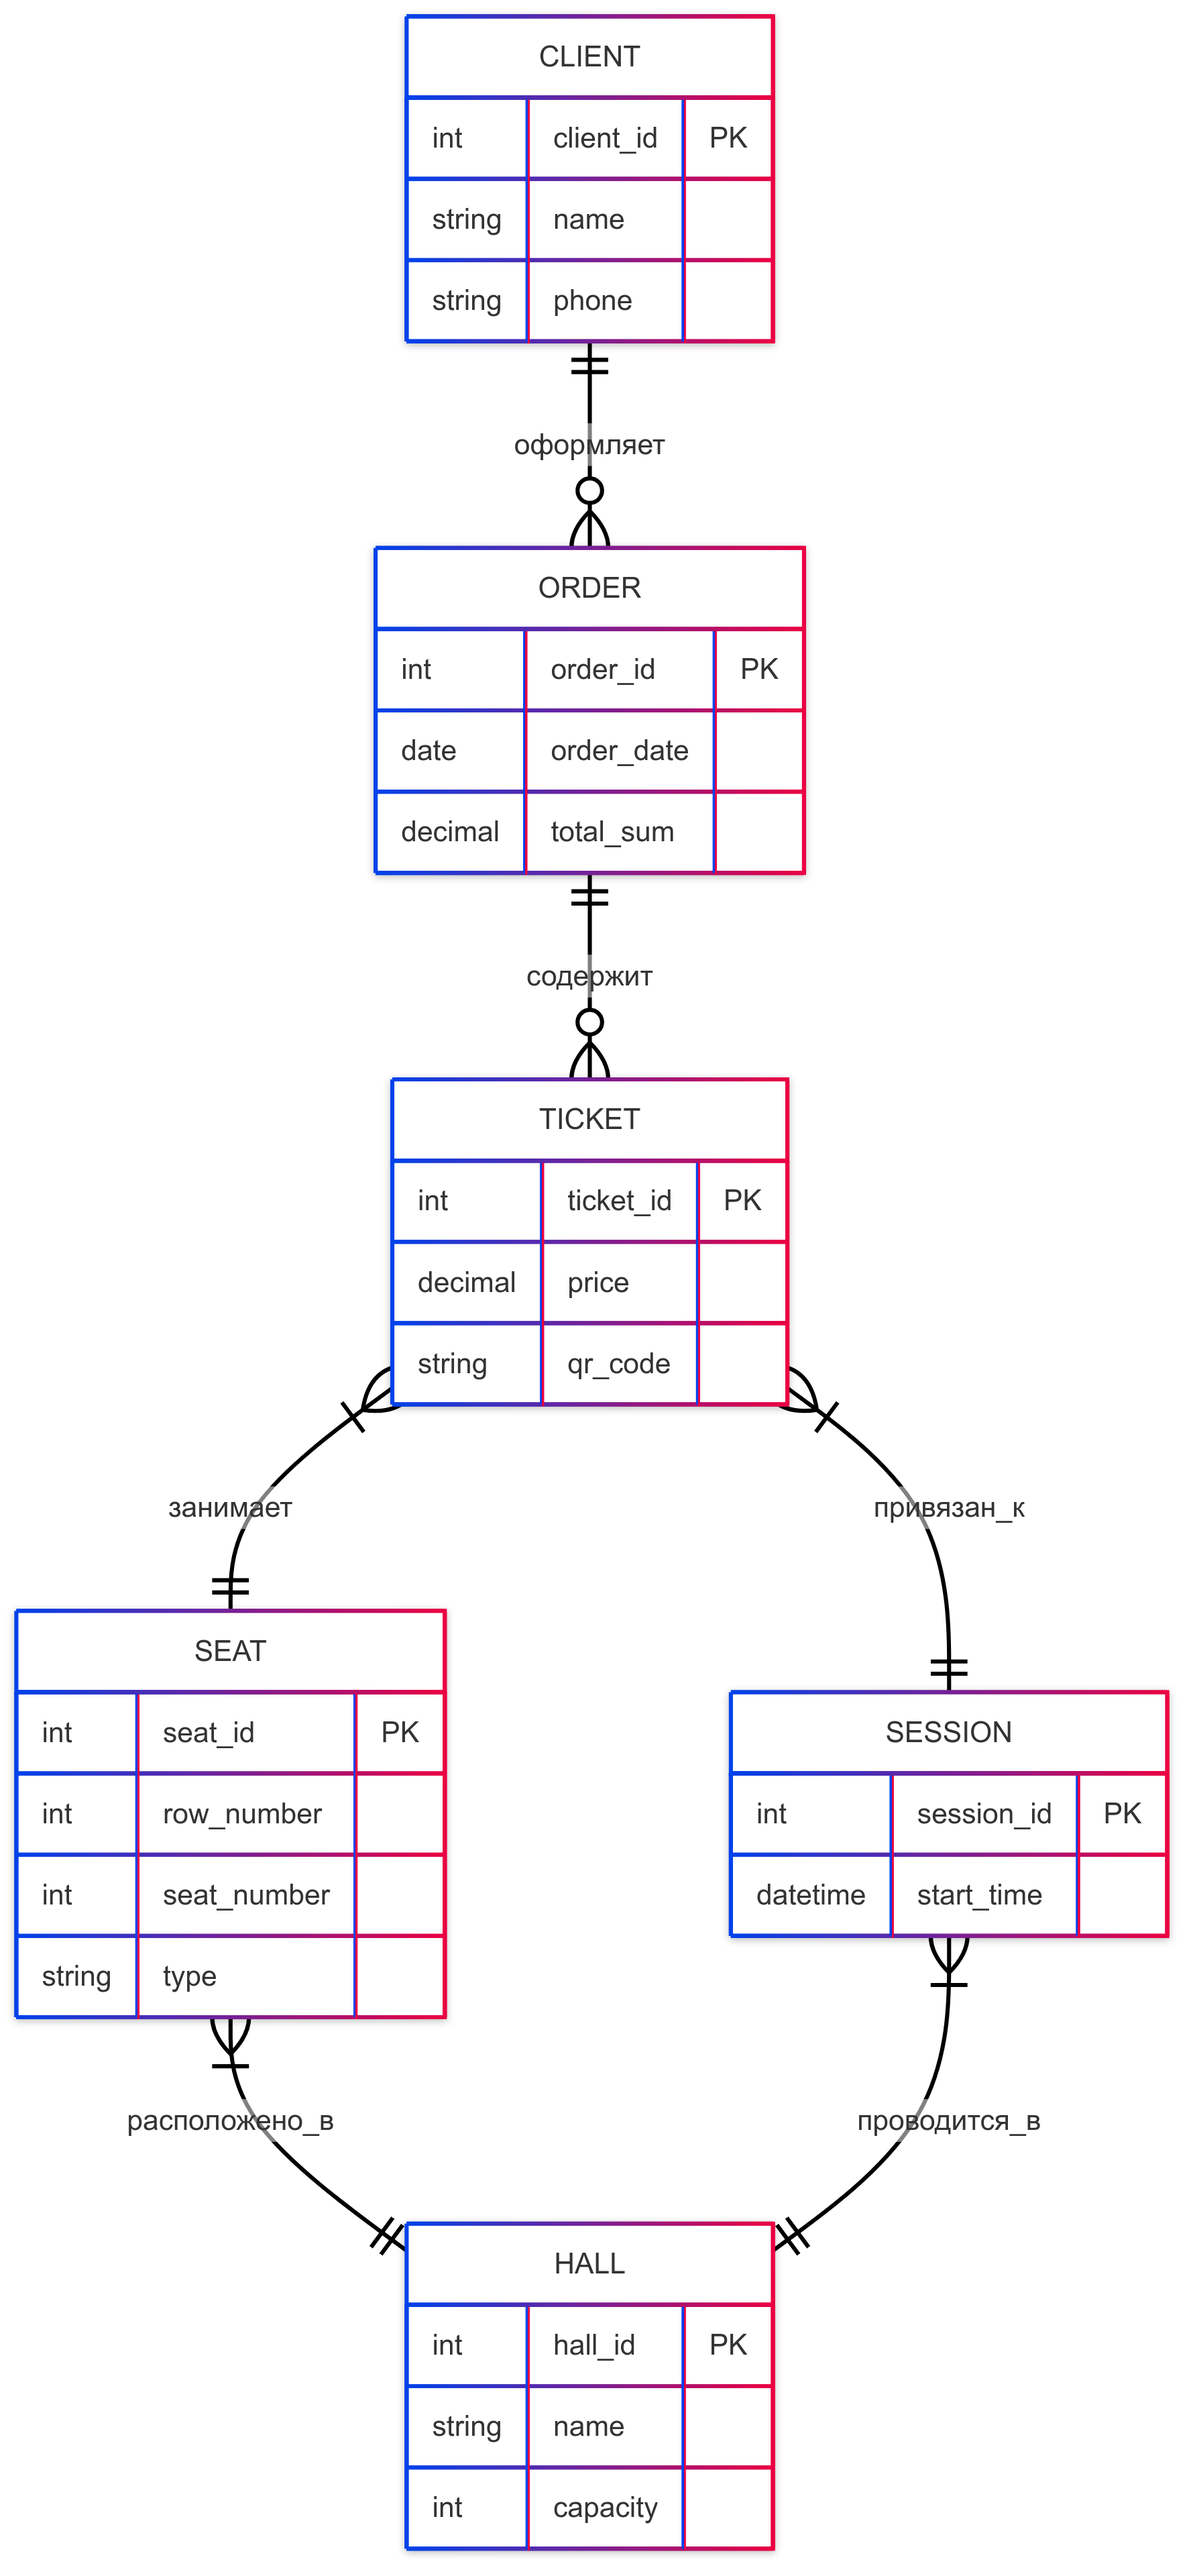
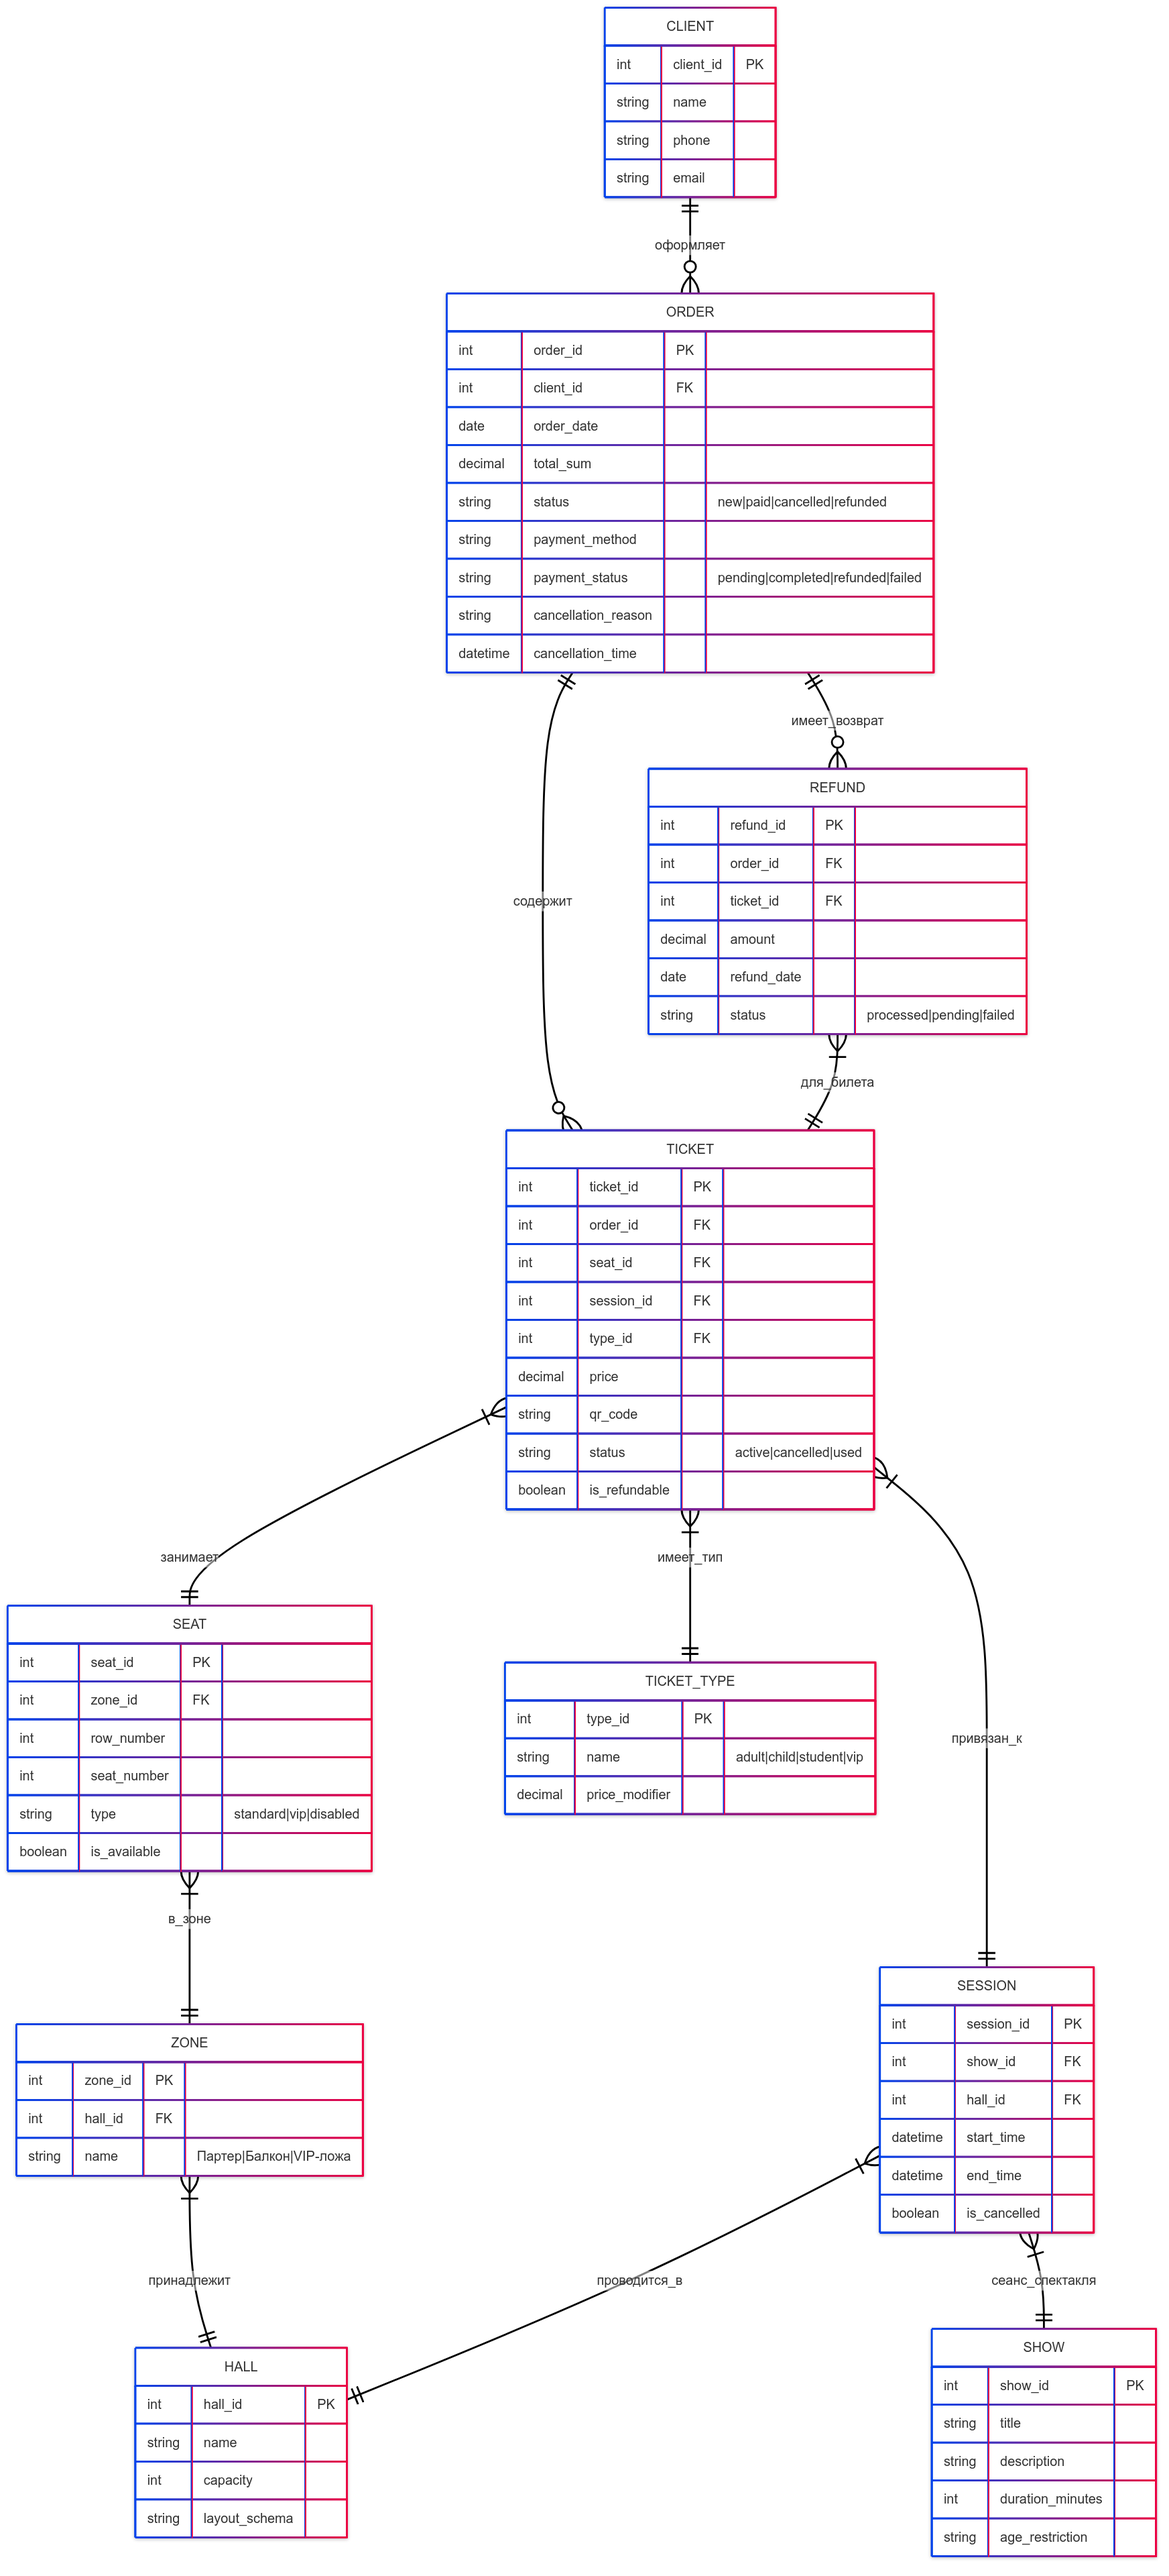
er:fixed

diff --git a/ER/diagram.md b/ER/diagram.md
@@ -4,41 +4,96 @@ erDiagram
         int client_id PK
         string name
         string phone
+        string email
     }
-    CLIENT ||--o{ ORDER : "оформляет"
     
     ORDER {
         int order_id PK
+        int client_id FK
         date order_date
         decimal total_sum
+        string status "new|paid|cancelled|refunded"
+        string payment_method
+        string payment_status "pending|completed|refunded|failed"
+        string cancellation_reason
+        datetime cancellation_time
     }
-    ORDER ||--o{ TICKET : "содержит"
     
     TICKET {
         int ticket_id PK
+        int order_id FK
+        int seat_id FK
+        int session_id FK
+        int type_id FK
         decimal price
         string qr_code
+        string status "active|cancelled|used"
+        boolean is_refundable
     }
-    TICKET }|--|| SEAT : "занимает"
-    TICKET }|--|| SESSION : "привязан_к"
     
     SEAT {
         int seat_id PK
+        int zone_id FK
         int row_number
         int seat_number
-        string type
+        string type "standard|vip|disabled"
+        boolean is_available
     }
-    SEAT }|--|| HALL : "расположено_в"
+    
+    ZONE {
+        int zone_id PK
+        int hall_id FK
+        string name "Партер|Балкон|VIP-ложа"
+    }
     
     HALL {
         int hall_id PK
         string name
         int capacity
+        string layout_schema
     }
     
     SESSION {
         int session_id PK
+        int show_id FK
+        int hall_id FK
         datetime start_time
+        datetime end_time
+        boolean is_cancelled
     }
+    
+    SHOW {
+        int show_id PK
+        string title
+        string description
+        int duration_minutes
+        string age_restriction
+    }
+    
+    REFUND {
+        int refund_id PK
+        int order_id FK
+        int ticket_id FK
+        decimal amount
+        date refund_date
+        string status "processed|pending|failed"
+    }
+    
+    TICKET_TYPE {
+        int type_id PK
+        string name "adult|child|student|vip"
+        decimal price_modifier
+    }
+
+    CLIENT ||--o{ ORDER : "оформляет"
+    ORDER ||--o{ TICKET : "содержит"
+    ORDER ||--o{ REFUND : "имеет_возврат"
+    TICKET }|--|| SEAT : "занимает"
+    TICKET }|--|| SESSION : "привязан_к"
+    TICKET }|--|| TICKET_TYPE : "имеет_тип"
+    SEAT }|--|| ZONE : "в_зоне"
+    ZONE }|--|| HALL : "принадлежит"
     SESSION }|--|| HALL : "проводится_в"
+    SESSION }|--|| SHOW : "сеанс_спектакля"
+    REFUND }|--|| TICKET : "для_билета"
 ```
